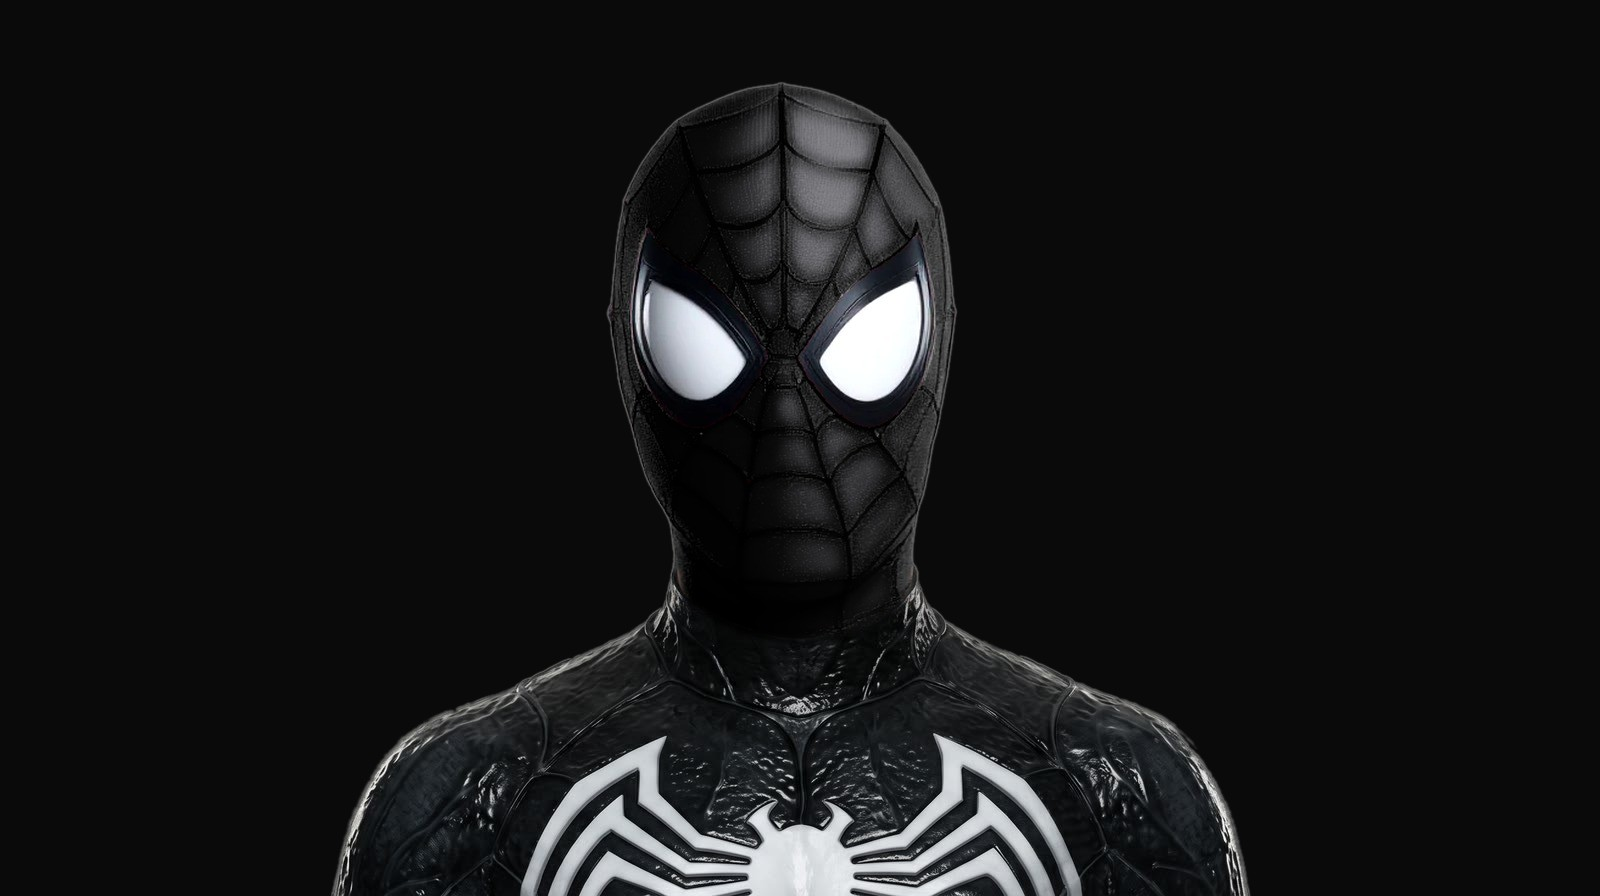
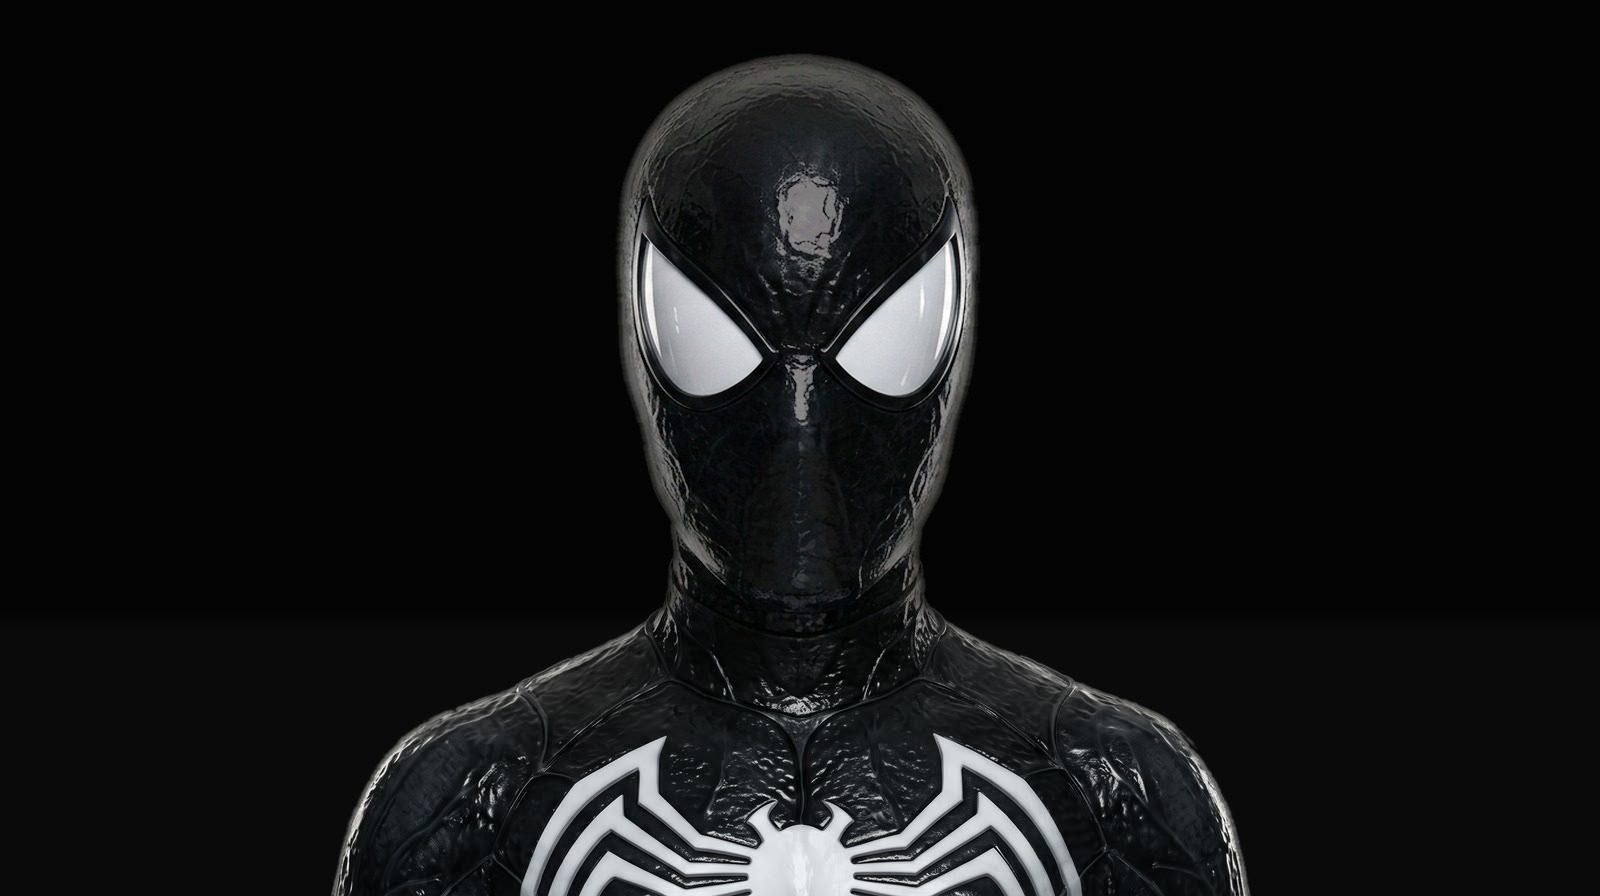
Symbiote hero: new mask render with a real chin, highlights toned for the dark page
The user's new render keeps the face shot's framing exactly (head-swap at 0,0). tame-gloss.py
compresses its studio highlights (forehead hotspot, white rim) that glowed on the near-black
background. The red-recolour stopgap (black-suit.py) is gone.

Changed region(s): [[0.375, 0.0625, 0.625, 0.6875]]

diff --git a/scripts/tame-gloss.py b/scripts/tame-gloss.py
@@ -1,0 +1,50 @@
+"""Tone down the symbiote mask's studio highlights once its background is dark.
+
+Rendered on white, the glossy head picks up a bright rim all around and a big white hotspot on the
+forehead; on the page's near-black they read as a glowing outline and a bald patch. This compresses
+the highlights on the head (the white lenses and everything below the collar are left alone) and
+darkens the rim hardest right at the silhouette.
+
+    python scripts/tame-gloss.py public/img/symbiote/hero-mask.jpg   (after darken-bg.py)
+
+Needs: pip install pillow numpy scipy
+"""
+
+import sys
+
+import numpy as np
+from PIL import Image
+from scipy import ndimage
+
+HEAD_BOTTOM = 620  # the collar sits just below; the body comes from the face shot and stays as is
+
+path = sys.argv[1]
+img = np.asarray(Image.open(path).convert("RGB"), np.float32)
+lum = img.mean(2)
+sat = img.max(2) - img.min(2)
+
+# The lenses are the two big white blobs on the head (the chest spider is the third, lower down).
+bright = (lum > 150) & (sat < 40)
+labels, n = ndimage.label(bright)
+sizes = ndimage.sum(bright, labels, range(1, n + 1))
+lens = np.isin(labels, [i + 1 for i, s in enumerate(sizes) if s > 6000])
+lens[700:] = False
+lens = ndimage.binary_fill_holes(ndimage.binary_closing(lens, iterations=6))
+keep = ndimage.gaussian_filter(ndimage.binary_dilation(lens, iterations=14).astype(np.float32), 3)
+
+head = np.zeros_like(lum)
+head[:HEAD_BOTTOM] = 1
+head = ndimage.gaussian_filter(head, 8)
+
+# Backdrop = the dark area connected to the top edge; the rim is measured from it.
+labels, _ = ndimage.label(lum < 16)
+top = np.unique(labels[0])
+backdrop = np.isin(labels, top[top > 0])
+rim = np.clip(0.35 + 0.65 * ndimage.distance_transform_edt(~backdrop) / 16, 0.35, 1)
+
+toned = np.where(lum > 80, 80 + (lum - 80) * 0.4, lum) * rim
+scale = np.where(lum > 1, toned / np.maximum(lum, 1), 1)
+w = (head * (1 - keep))[..., None]
+out = img * (1 - w) + img * scale[..., None] * w
+Image.fromarray(np.clip(out, 0, 255).round().astype(np.uint8)).save(path, quality=92)
+print(f"{path}: highlights toned")
